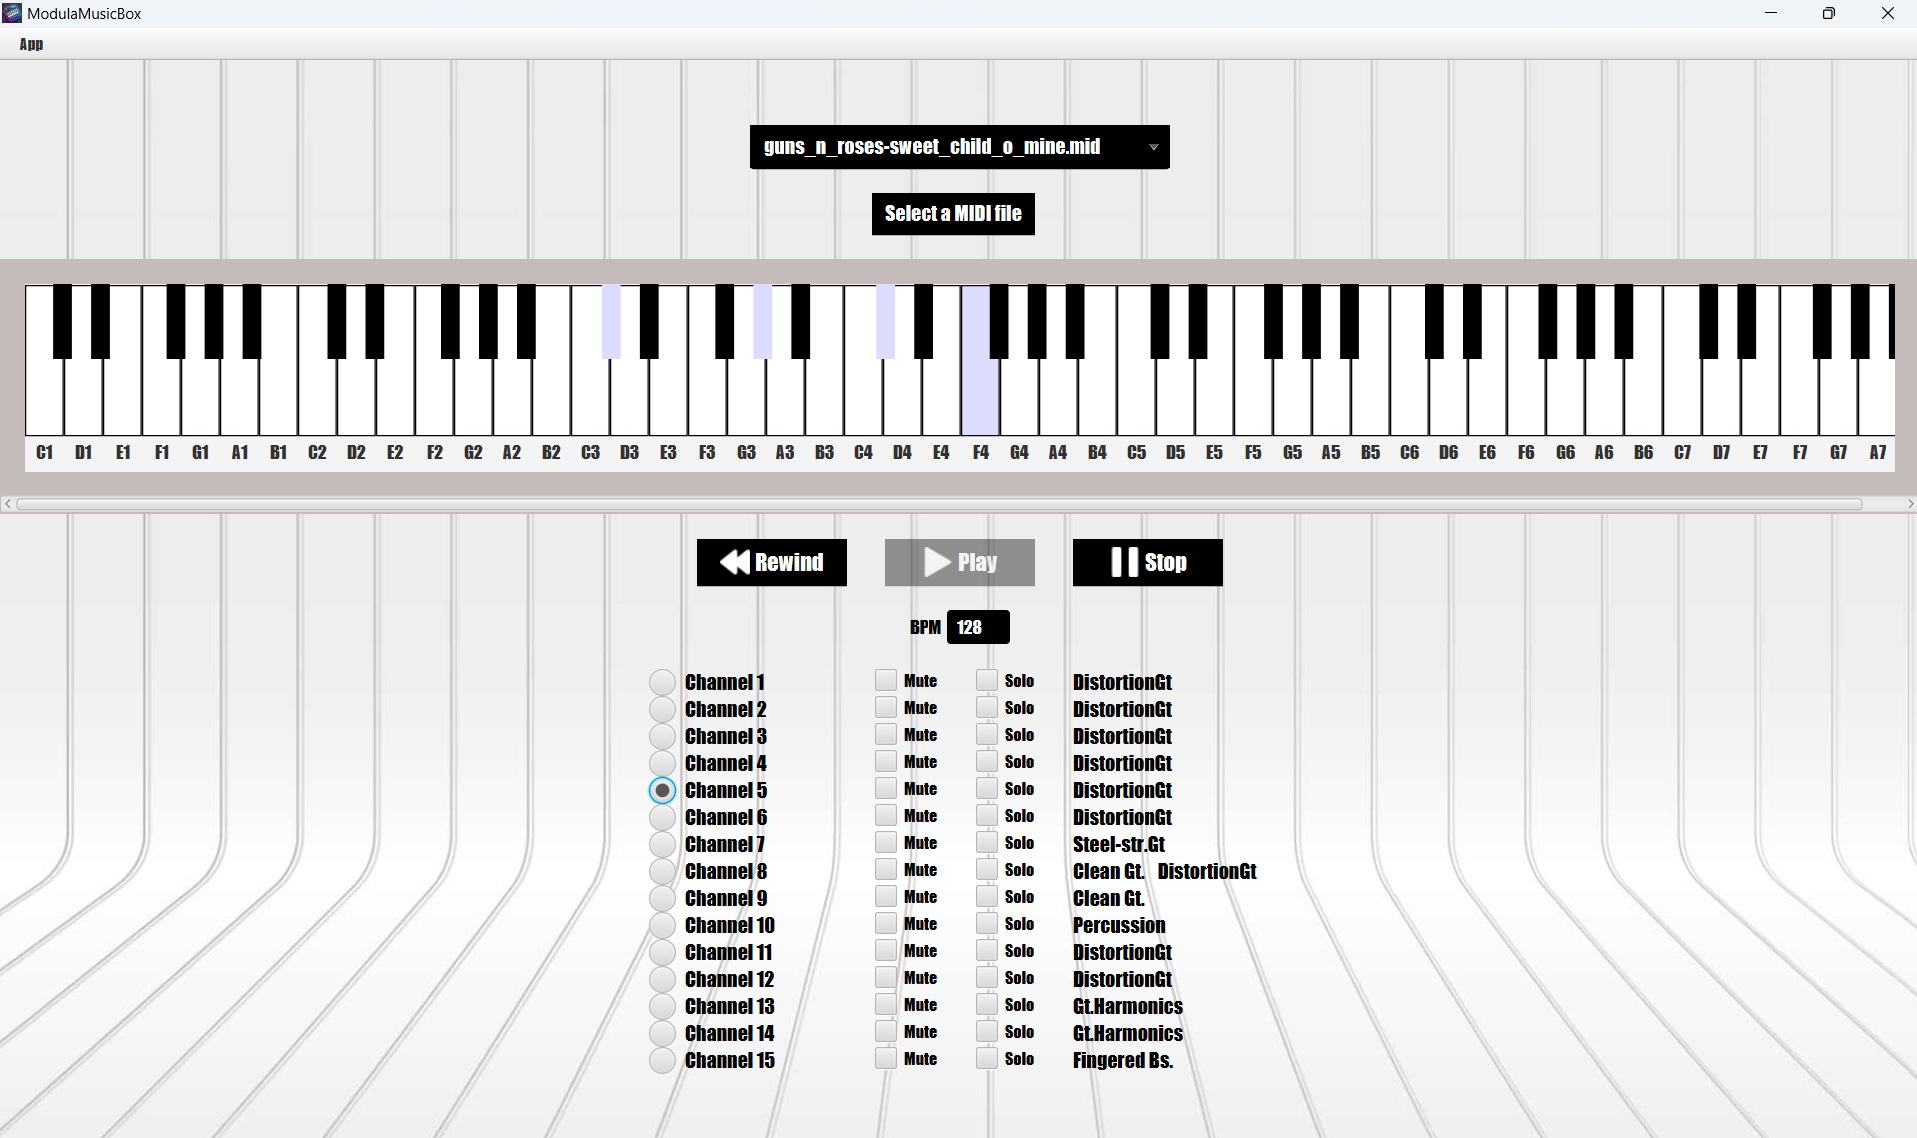
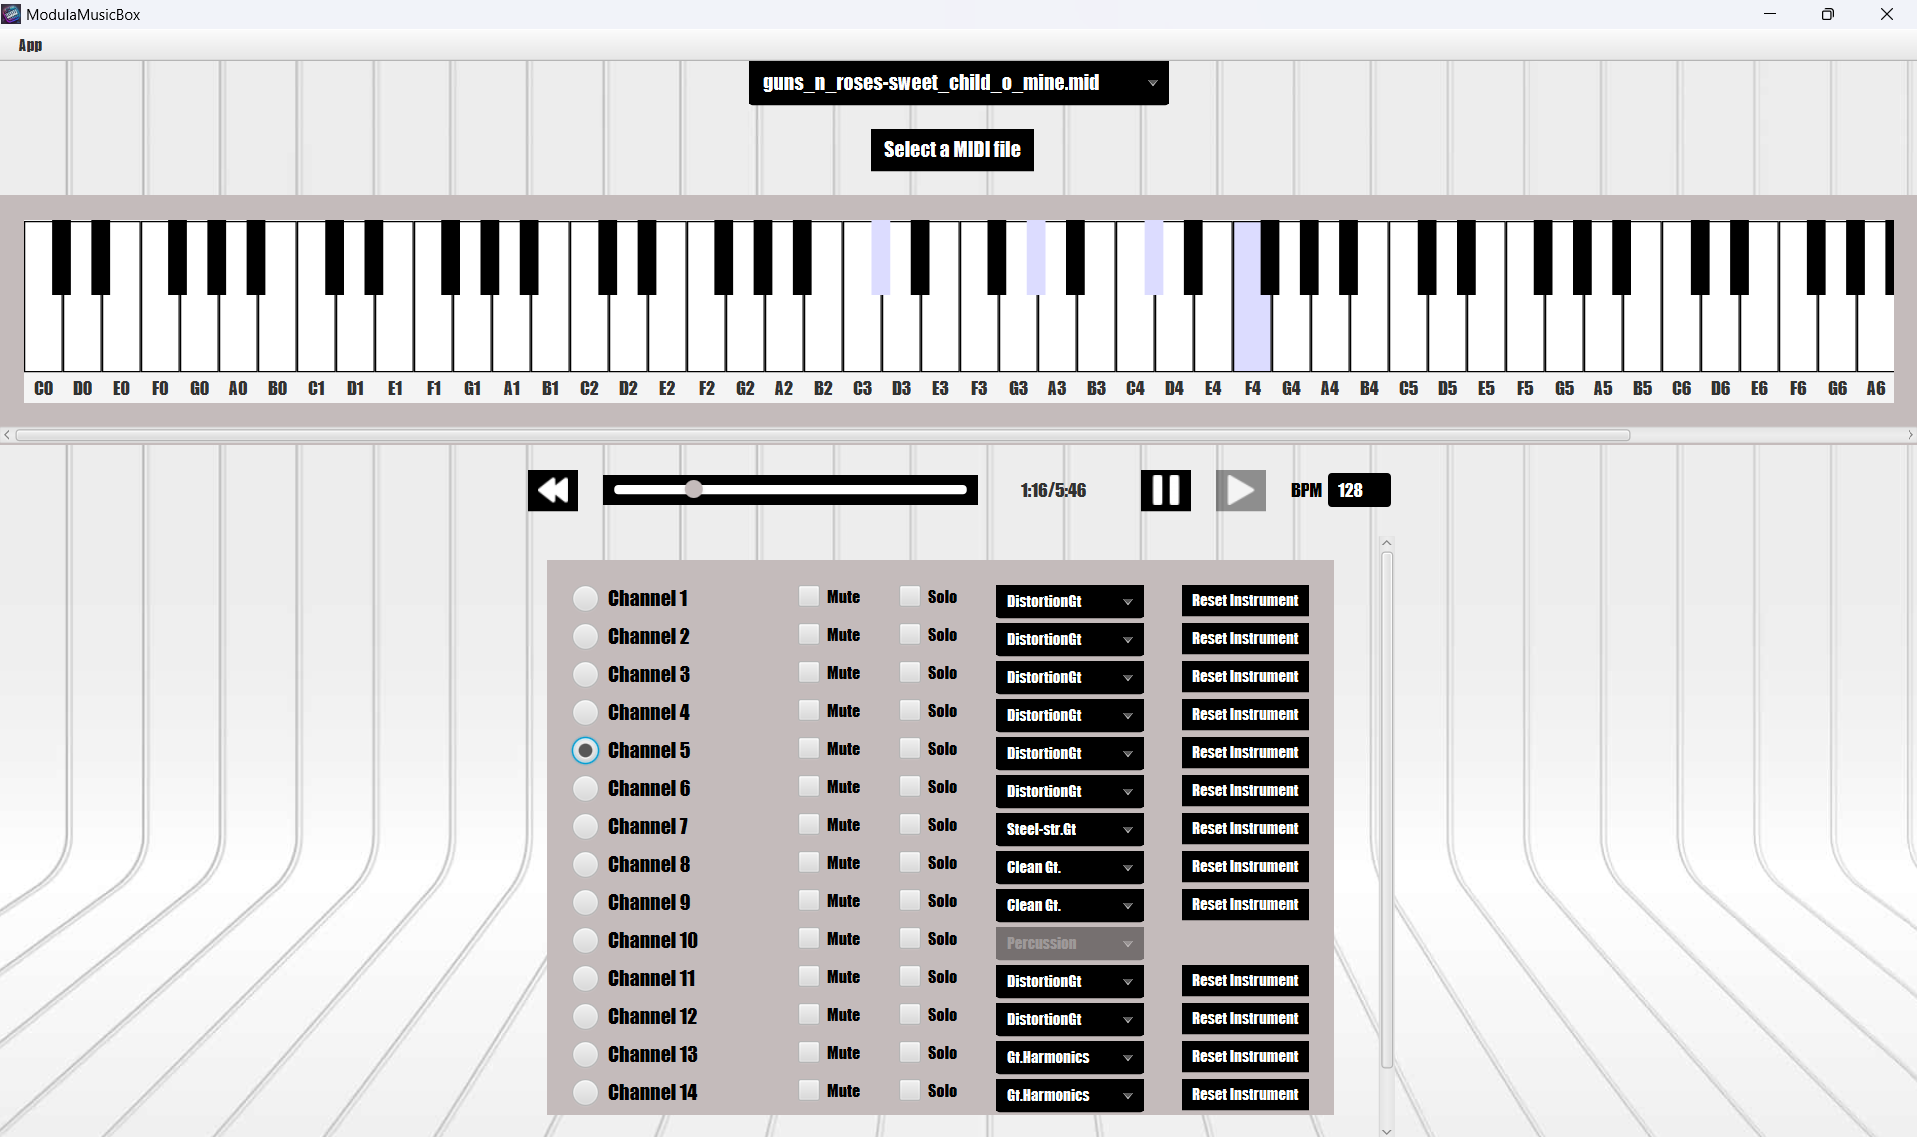
updated readme

diff --git a/README.md b/README.md
@@ -1,21 +1,23 @@
 # ModulaMusicBox
 
 **ModulaMusicBox** is a Java-based MIDI visualization and playback tool that brings a digital keyboard experience right 
-to your screen. Load MIDI files, watch the keyboard light up with each note played, and interact directly with the 
-keyboard to play your own notes!
+to your screen. Load a MIDI file or select one from the predefined options, start the track, watch the keyboard illuminate 
+in real time with each note played, and interact with the interface to play your own notes directly on the keyboard.
 
 ## Features
 
-- **MIDI File Loading**: Load MIDI files directly within the app.
+- **MIDI File Loading**: Load MIDI files directly within the app or select one from the available options in the dropdown menu.
 - **Real-Time Key Visualization**: Observe which keys are currently being played on a MIDI track.
 - **Instrument Channel Selection**: Choose individual instrument channels to focus on the notes of a specific instrument.
 - **Interactive Keyboard**: Click on the digital keyboard to play notes manually and interact with the music.
+- **Track Controls Configuration**: Use the dropdown menu to change the instrument for a specific channel 
+or adjust the beats per minute to alter the track's playback speed. Solo and mute channels to focus on specific instruments.
 
 ![ModulaMusicBox](doc/modulamusicbox.png)
 
 ## Requirements
 
-- Java 7 or above.
+- Java 17 or above.
 
 ## Installation
 
